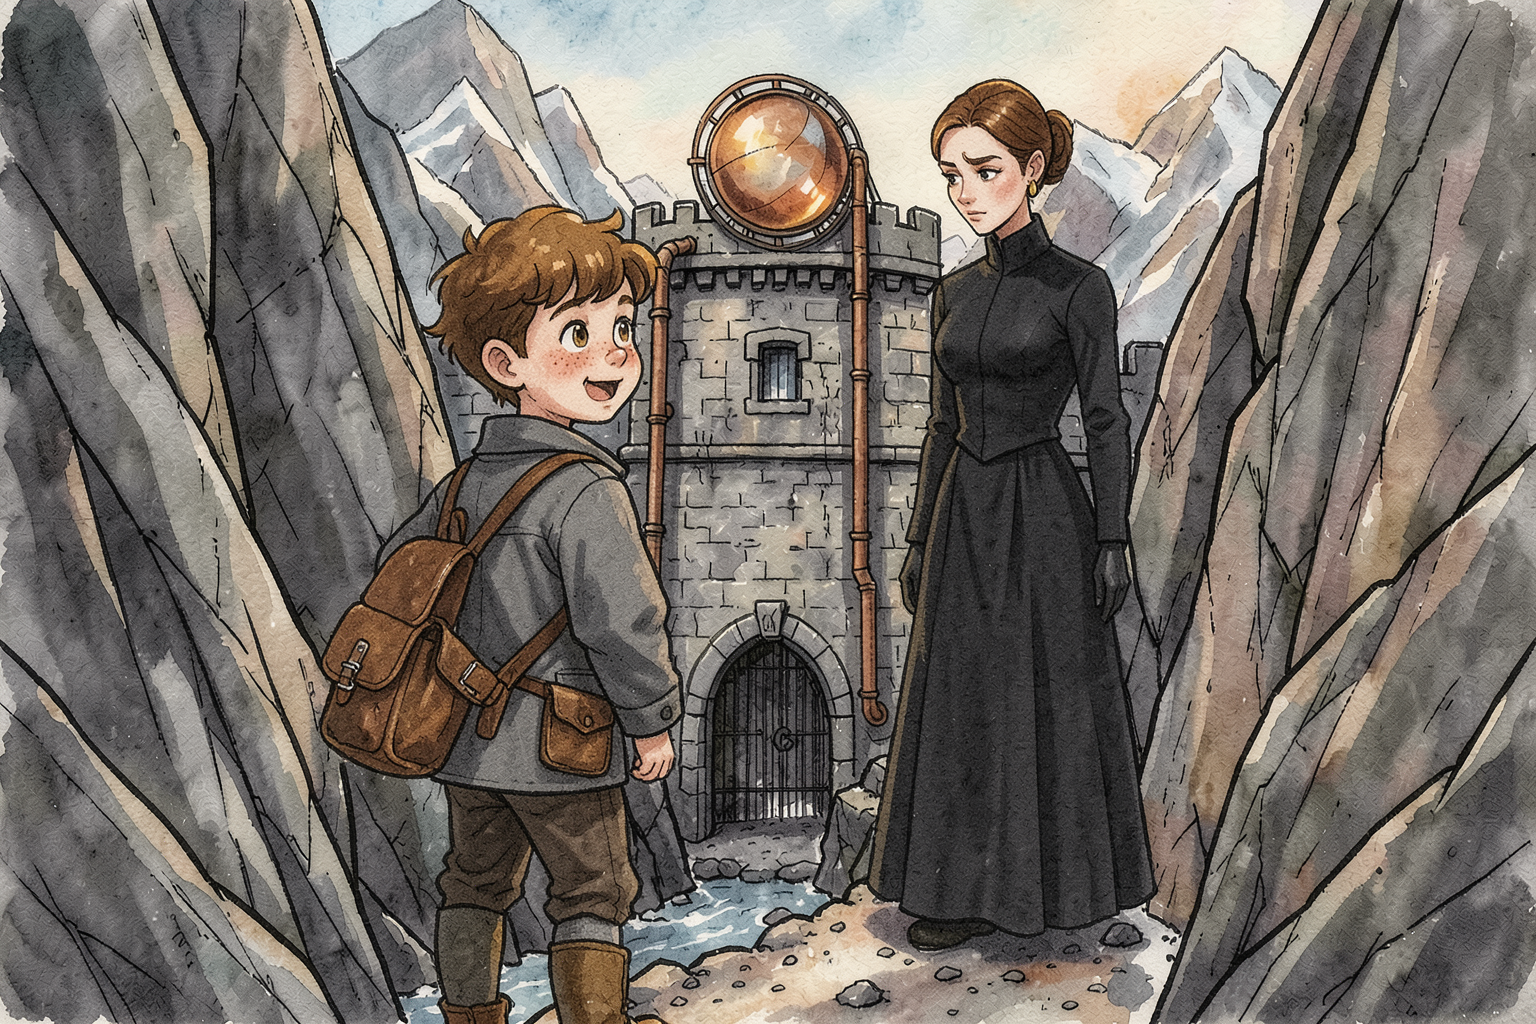
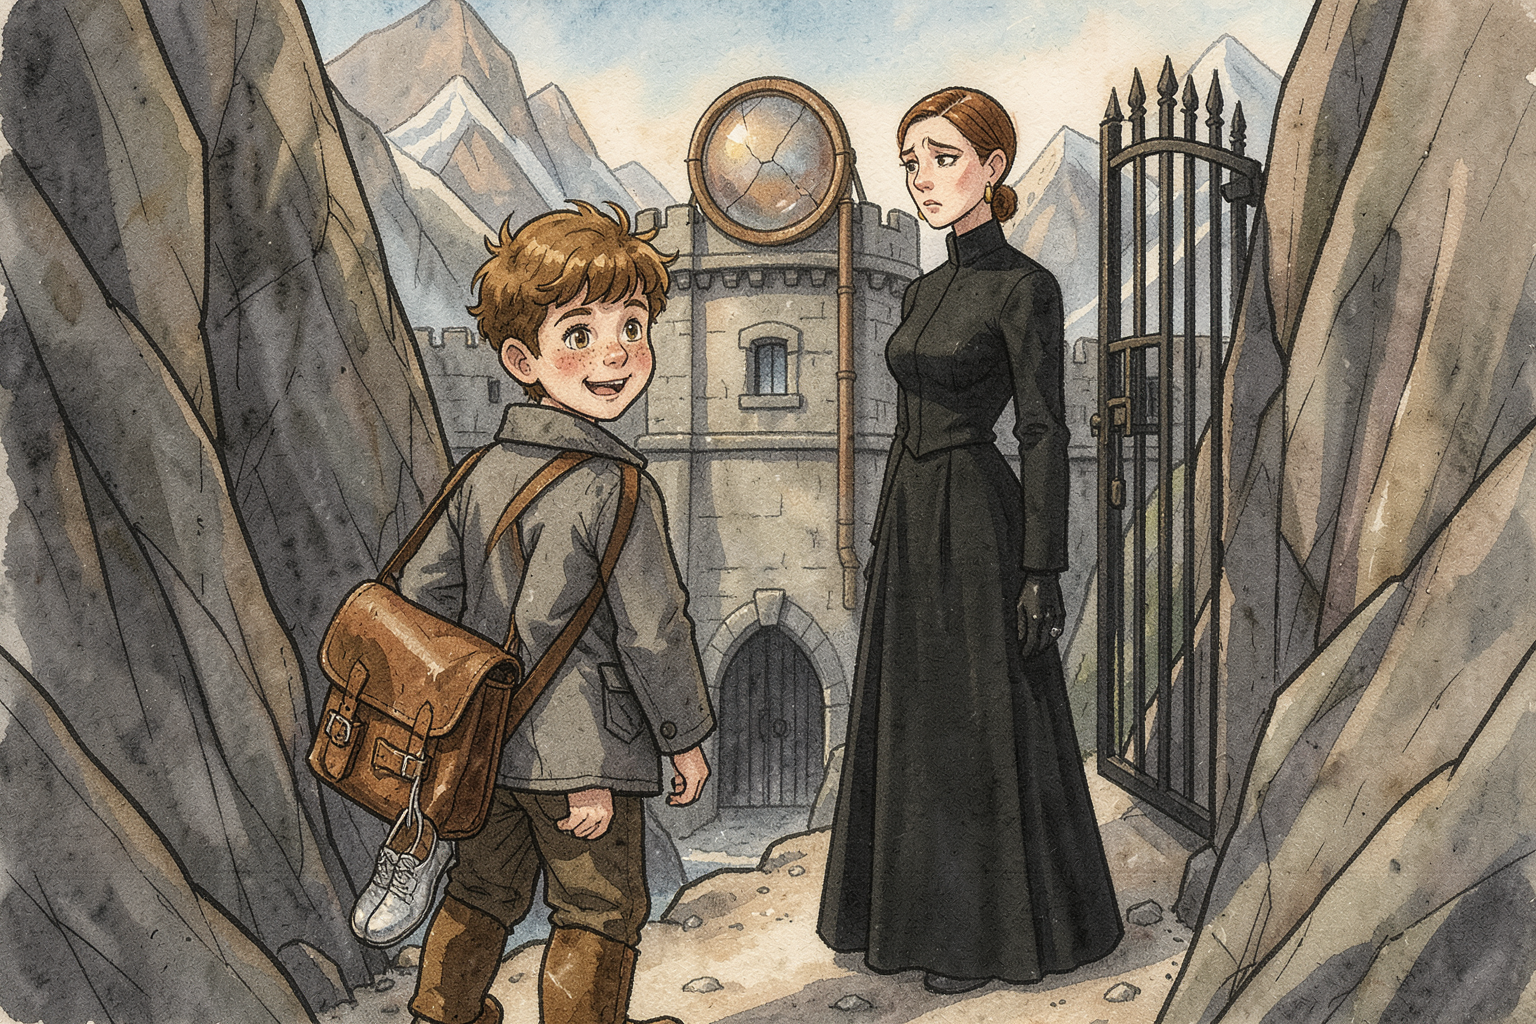
Bildprüfung: Perle 7 neu erzeugt

diff --git a/docs/art/szenen/perle-7/README.md b/docs/art/szenen/perle-7/README.md
@@ -167,3 +167,15 @@ Alle mit `tools/erzeuge-szene.ps1`, FLUX.2 klein 4B, je 6 Seeds. Übersicht: `ue
 | Bild | Ergebnis |
 |---|---|
 | `szene-silbermark-stube` | Bildbearbeitung Seed 2: Schreiber als Mann um die vierzig mit Brille |
+
+| `szene-abschied-tickwort` | neu, Seed 4: zwei Arme, links Zange mit Pfeife, rechts leere Zange; die Goblins tragen jetzt Kleidung |
+| `szene-zum-halben-hauer` | behalten: alle 6 Seeds haben weiter offene Flammen auf den Tischen bzw. zwei heile Hauer, der Krug fällt nie |
+| `szene-vier-wege` | behalten: in allen 6 Seeds steht Schein-Schrift auf der Karte |
+| `tagebuch-perle-7` | neu, Seed 4 mit Nachbesserung: Ringzeichen unten rechts korrekt (vier Ringe im Kreis); ein zweites Zeichen oben rechts mit fünf Ringen wurde mit Papierfarbe übermalt |
+| `szene-abschied-nerelle` | neu, Seed 3: Wasserschlauch aus Robbenleder statt Eimer; der Betrachter steht weiter auf dem Deck |
+| `szene-abschied-vardholm-kommt-cassian` | neu, Seed 4: Tor offen, Schnallenschuhe hängen am Ranzen |
+| `szene-abschied-vardholm-kommt-liora` | neu, Seed 4: Tor offen, Schnallenschuhe hängen am Ranzen |
+| `szene-herz-wiedersehen` | behalten: in allen 6 Seeds zweimal Braun und kein Weiß, und aus dem Riss läuft Flüssigkeit |
+| `szene-fremder-am-steg` | neu, Seed 4: Ringzeichen mit Pfeil nach rechts auf den Planken. Der Fremde wirkt weiter jung (wie das gewählte Einzelbild) |
+| `szene-leeres-dorf` | neu, Seed 5: braun-weiße Ziege mit grauem Hinterteil, im Profil |
+| `entdeckung-aufstieg-suedarm` | neu, Seed 5: alter Hirte vor der Hütte, Fackelpfosten am Zickzackweg, eine zweite kleine Hütte |
